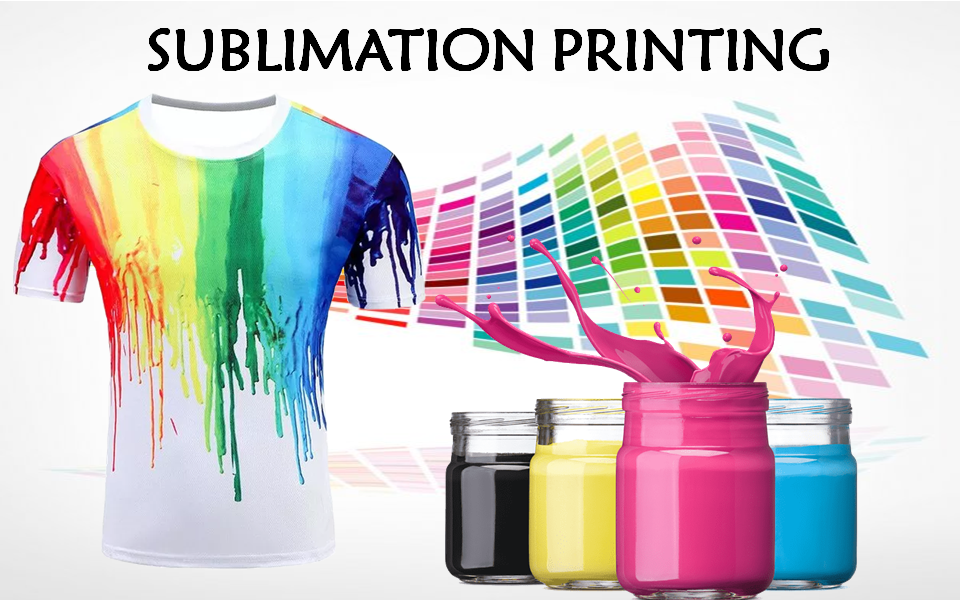
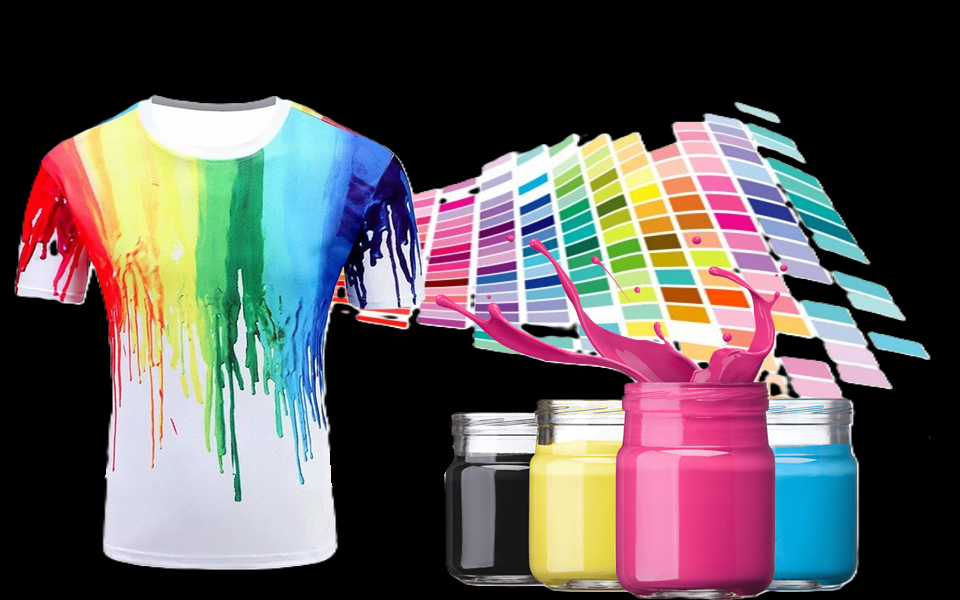
Implemented the tokenService unit test and change some images in public folder on frontend

diff --git a/backend-subli-print/test/unit/auth/services/token.service.spec.ts b/backend-subli-print/test/unit/auth/services/token.service.spec.ts
@@ -1,5 +1,168 @@
+import * as bcrypt from 'bcrypt';
+import { JwtService } from '@nestjs/jwt';
+import { getModelToken } from '@nestjs/mongoose';
+import { Test, TestingModule } from '@nestjs/testing';
+import { Model } from 'mongoose';
+import { RefreshToken } from 'src/modules/auth/schemas/refresh-token.schema';
+import { TokenService } from 'src/modules/auth/services/token.service';
+import { mockRefreshToken } from '../../mocks/refresh-token-model';
+import { AccessPayload } from 'src/common/interfaces/payloads.interface';
+import { envs } from 'src/config/envs';
+
+jest.mock('bcrypt');
+
 describe('TokenService', () => {
-  it('Token Service', () => {
-    expect(true).toBeTruthy();
+  let tokenService: TokenService;
+  let jwtService: jest.Mocked<JwtService>;
+  let refreshTokenModel: jest.Mocked<Model<RefreshToken>>;
+
+  beforeEach(async () => {
+    const module: TestingModule = await Test.createTestingModule({
+      providers: [
+        TokenService,
+        {
+          provide: JwtService,
+          useValue: {
+            signAsync: jest.fn(),
+          },
+        },
+        {
+          provide: getModelToken(RefreshToken.name),
+          useValue: {
+            findOne: jest.fn(),
+            findOneAndUpdate: jest.fn(),
+            deleteOne: jest.fn(),
+          },
+        },
+      ],
+    }).compile();
+
+    tokenService = module.get(TokenService);
+    jwtService = module.get(JwtService);
+    refreshTokenModel = module.get(getModelToken(RefreshToken.name));
+  });
+
+  afterEach(() => {
+    jest.clearAllMocks();
+  });
+
+  describe('validateRefreshToken', () => {
+    it('should return true if token is valid', async () => {
+      const email = 'test@example.com';
+      const token = 'plainToken';
+      const hashedToken = 'hashedToken';
+
+      const mockExec = jest.fn().mockResolvedValue(mockRefreshToken);
+      const mockQuery: any = { exec: mockExec };
+      // eslint-disable-next-line @typescript-eslint/no-unsafe-argument
+      const findOneSpy = refreshTokenModel.findOne.mockReturnValue(mockQuery);
+
+      (bcrypt.compare as jest.Mock).mockResolvedValue(true);
+
+      const result = await tokenService.validateRefreshToken({
+        token,
+        email,
+      });
+
+      expect(findOneSpy).toHaveBeenCalledWith({ email });
+      expect(bcrypt.compare).toHaveBeenCalledWith(token, hashedToken);
+      expect(result).toBeTruthy();
+    });
+
+    it('should return false if no token found', async () => {
+      const email = 'notfound@example.com';
+      const token = 'plainToken';
+
+      const mockExec = jest.fn().mockResolvedValue(null);
+      const mockQuery: any = { exec: mockExec };
+      // eslint-disable-next-line @typescript-eslint/no-unsafe-argument
+      const findOneSpy = refreshTokenModel.findOne.mockReturnValue(mockQuery);
+
+      const result = await tokenService.validateRefreshToken({
+        token,
+        email,
+      });
+
+      expect(findOneSpy).toHaveBeenCalledWith({ email });
+      expect(result).toBeFalsy();
+    });
+
+    it('should return false if is invalid token', async () => {
+      const email = 'test@example.com';
+      const token = 'wrongToken';
+      const hashedToken = 'hashedToken';
+
+      const mockExec = jest.fn().mockResolvedValue(mockRefreshToken);
+      const mockQuery: any = { exec: mockExec };
+      // eslint-disable-next-line @typescript-eslint/no-unsafe-argument
+      const findOneSpy = refreshTokenModel.findOne.mockReturnValue(mockQuery);
+
+      (bcrypt.compare as jest.Mock).mockResolvedValue(false);
+
+      const result = await tokenService.validateRefreshToken({
+        token,
+        email,
+      });
+
+      expect(findOneSpy).toHaveBeenCalledWith({ email });
+      expect(bcrypt.compare).toHaveBeenCalledWith(token, hashedToken);
+      expect(result).toBeFalsy();
+    });
+  });
+
+  describe('generateTokens', () => {
+    it('Should return tokens with user payload', async () => {
+      const mockPayload: AccessPayload = {
+        sub: '123',
+        email: 'test@example.com',
+        role: 'CLIENT',
+      };
+
+      jwtService.signAsync
+        .mockResolvedValueOnce('access-token')
+        .mockResolvedValueOnce('newRefreshToken');
+
+      (bcrypt.hash as jest.Mock).mockResolvedValue('hashed-refresh-token');
+
+      const signAsyncSpy =
+        jwtService.signAsync.mockResolvedValue('signed token');
+
+      const result = await tokenService.generateTokens(mockPayload);
+
+      expect(signAsyncSpy).toHaveBeenCalledWith(mockPayload, {
+        secret: envs.jwtAccessSecret,
+        expiresIn: '15m',
+      });
+      expect(signAsyncSpy).toHaveBeenCalledWith(
+        { email: 'test@example.com' },
+        { secret: envs.jwtRefreshSecret, expiresIn: '7d' },
+      );
+      expect(bcrypt.hash).toHaveBeenCalledWith('newRefreshToken', 10);
+      // eslint-disable-next-line @typescript-eslint/unbound-method
+      expect(refreshTokenModel.findOneAndUpdate).toHaveBeenCalledWith(
+        { email: 'test@example.com' },
+        { token: 'hashed-refresh-token' },
+        { upsert: true },
+      );
+      expect(result).toEqual({
+        access_token: 'access-token',
+        refresh_token: 'newRefreshToken',
+      });
+    });
+  });
+
+  describe('revokeTokens', () => {
+    it('should delete token by email', async () => {
+      const deleteOneSpy = refreshTokenModel.deleteOne.mockResolvedValue({
+        acknowledged: true,
+        deletedCount: 1,
+      });
+
+      await tokenService.revokeTokens('test@example.com');
+
+      expect(deleteOneSpy).toHaveBeenCalledWith({
+        email: 'test@example.com',
+      });
+    });
   });
 });

diff --git a/backend-subli-print/test/unit/auth/services/auth.service.spec.ts b/backend-subli-print/test/unit/auth/services/auth.service.spec.ts
@@ -1,4 +1,3 @@
-import { JwtService } from '@nestjs/jwt';
 import { Test, TestingModule } from '@nestjs/testing';
 import { AuthService } from 'src/modules/auth/services/auth.service';
 import { UsersService } from 'src/modules/users/users.service';
@@ -10,14 +9,12 @@ import {
 import * as bcrypt from 'bcrypt';
 import { ConflictException, UnauthorizedException } from '@nestjs/common';
 import { mockProfile } from '../../mocks/google-profile';
-import { AccessPayload } from 'src/common/interfaces/payloads.interface';
 
 jest.mock('bcrypt');
 
 describe('AuthService', () => {
   let service: AuthService;
   let userService: jest.Mocked<UsersService>;
-  let jwtService: jest.Mocked<JwtService>;
 
   beforeEach(async () => {
     const module: TestingModule = await Test.createTestingModule({
@@ -30,19 +27,11 @@ describe('AuthService', () => {
             create: jest.fn(),
           },
         },
-        {
-          provide: JwtService,
-          useValue: {
-            sign: jest.fn(),
-            verify: jest.fn(),
-          },
-        },
       ],
     }).compile();
 
     service = module.get(AuthService);
     userService = module.get(UsersService);
-    jwtService = module.get(JwtService);
   });
 
   describe('Validate User', () => {
@@ -119,26 +108,6 @@ describe('AuthService', () => {
         username: 'test',
         avatar: 'photo-url',
         provider: 'google',
-      });
-    });
-  });
-
-  describe('generateTokens', () => {
-    it('Should return tokens with user payload', () => {
-      const mockPayload: AccessPayload = {
-        sub: '123',
-        email: 'test@example.com',
-        role: 'CLIENT',
-      };
-
-      jwtService.sign
-        .mockReturnValueOnce('access-token')
-        .mockReturnValueOnce('refresh-token');
-
-      const result = service.generateTokens(mockPayload);
-      expect(result).toEqual({
-        access_token: 'access-token',
-        refresh_token: 'refresh-token',
       });
     });
   });

diff --git a/backend-subli-print/src/modules/auth/services/auth.service.ts b/backend-subli-print/src/modules/auth/services/auth.service.ts
@@ -5,19 +5,14 @@ import {
 } from '@nestjs/common';
 import { UsersService } from 'src/modules/users/users.service';
 import * as bcrypt from 'bcrypt';
-import { JwtService } from '@nestjs/jwt';
 import { Profile } from 'passport-google-oauth20';
-import { AccessPayload } from 'src/common/interfaces/payloads.interface';
 import { User } from 'src/modules/users/schemas/user.schema';
 import { UserPlainObject } from 'src/common/interfaces/user.interface';
 import { LoginDto } from '../dto/login.dto';
 
 @Injectable()
 export class AuthService {
-  constructor(
-    private readonly userService: UsersService,
-    private readonly jwtService: JwtService,
-  ) {}
+  constructor(private readonly userService: UsersService) {}
 
   async validateUser(credentials: LoginDto): Promise<UserPlainObject> {
     const user = await this.userService.findOne({ email: credentials.email });
@@ -58,23 +53,5 @@ export class AuthService {
       avatar: profile.photos?.[0]?.value,
       provider: 'google',
     });
-  }
-
-  generateTokens(payload: AccessPayload) {
-    const { sub, email, role } = payload;
-    const newAccessToken = this.jwtService.sign(
-      { sub, email, role },
-      { expiresIn: '15m' },
-    );
-
-    const newRefreshToken = this.jwtService.sign(
-      { email: email },
-      { expiresIn: '7d' },
-    );
-
-    return {
-      access_token: newAccessToken,
-      refresh_token: newRefreshToken,
-    };
   }
 }

diff --git a/backend-subli-print/test/unit/mocks/refresh-token-model.ts b/backend-subli-print/test/unit/mocks/refresh-token-model.ts
@@ -1,0 +1,7 @@
+import { RefreshToken } from 'src/modules/auth/schemas/refresh-token.schema';
+
+export const mockRefreshToken = {
+  _id: '123',
+  email: 'test@example.com',
+  token: 'hashedToken',
+} as RefreshToken;
